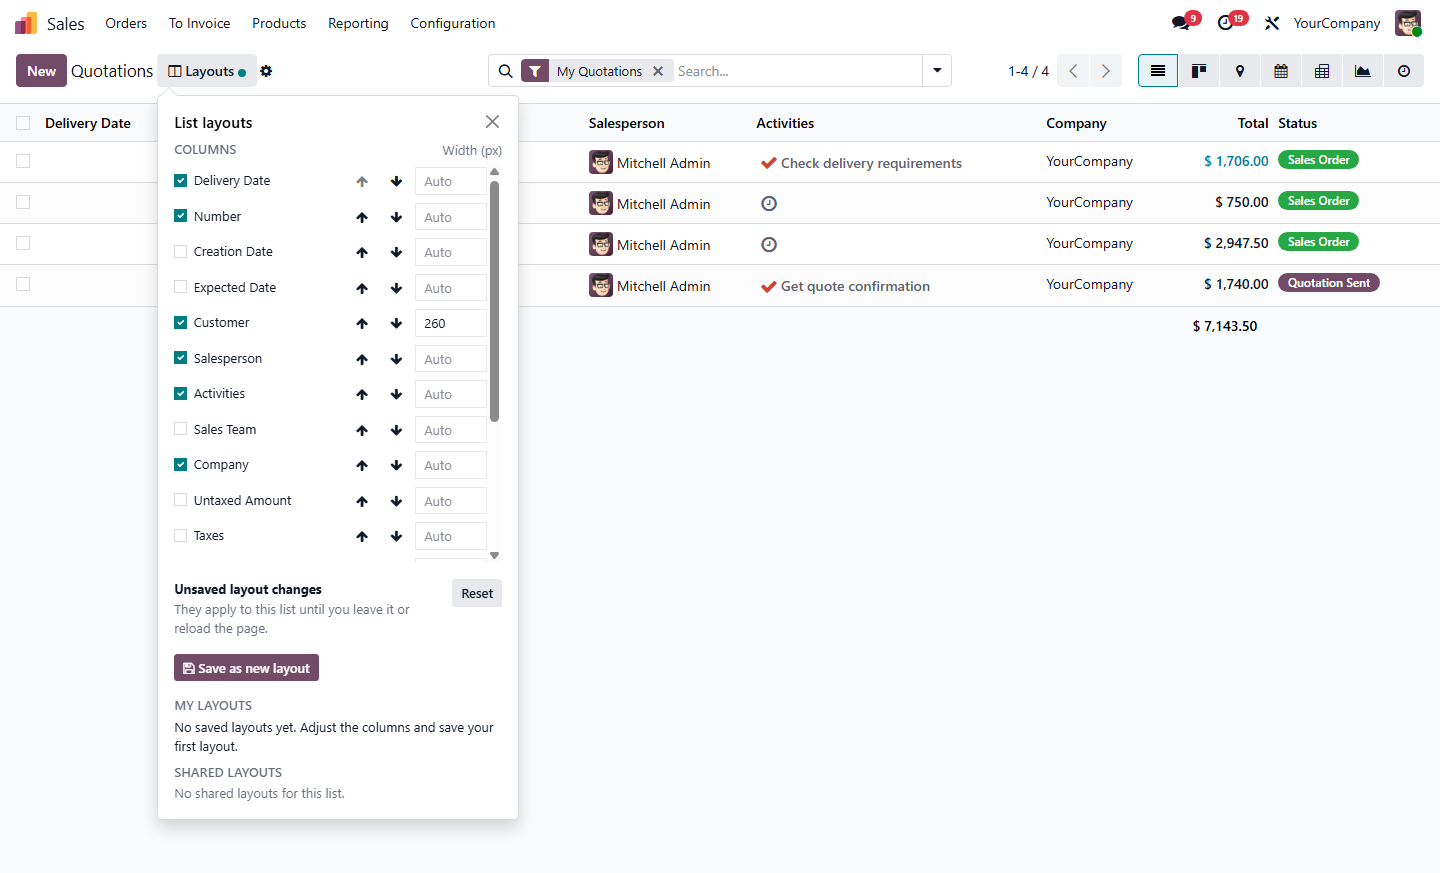
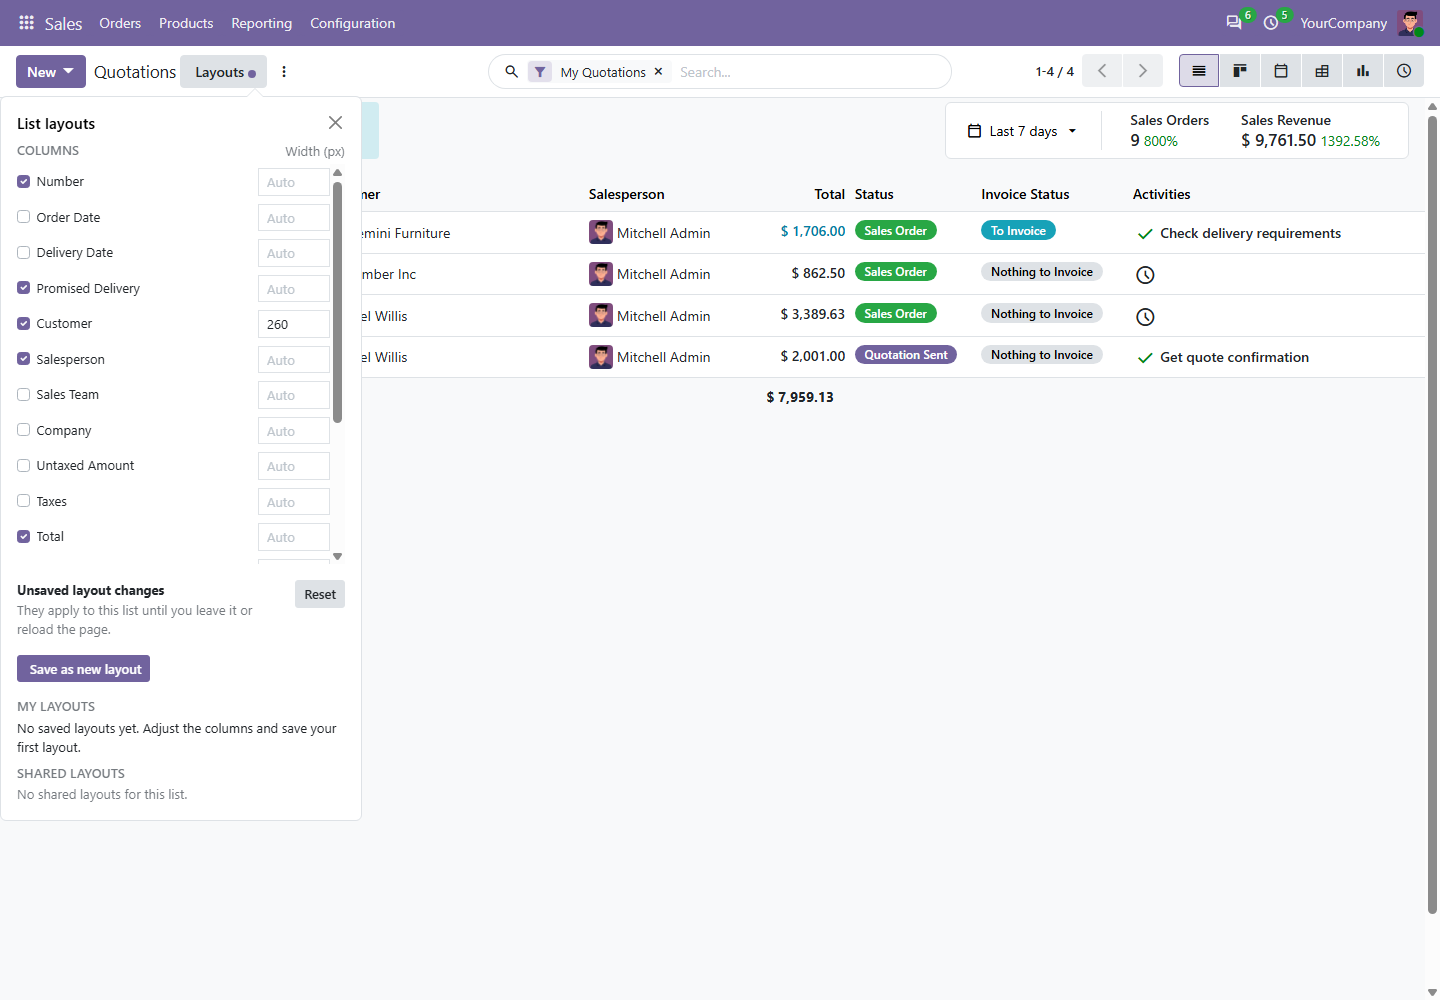
Port Smart List View Pro to Odoo 20.0 (20.0.1.1.0)
- Owl 3: proxy/signal refs/useProps, this.-scoped templates, t-out.
- Security: ir.access.csv replaces ir.model.access and ir.rule.
- List controller: control-panel check instead of showButtons; width
  reset uses the renderer's instance flag.
- Tests and tours adapted to Odoo 20 markup; new screenshots and GIFs.

diff --git a/smart_list_view_pro/static/tests/tours/list_layouts_tour.js b/smart_list_view_pro/static/tests/tours/list_layouts_tour.js
@@ -49,12 +49,12 @@ function listLayoutsSteps({ first, second, resize }) {
         { trigger: "body:not(:has(.o_smart_list_panel))" },
         // Native sorting, both directions.
         { trigger: "thead th.o_column_sortable[data-name]:first", run: "click" },
-        { trigger: "thead .o_list_sortable_icon.fa-sort-asc, thead .o_list_sortable_icon.fa-sort-desc" },
+        { trigger: "thead .o_list_sortable_icon[data-icon=arrow_upward], thead .o_list_sortable_icon[data-icon=arrow_downward]" },
         {
-            trigger: "thead th.o_column_sortable[data-name]:has(.fa-sort-asc, .fa-sort-desc)",
+            trigger: "thead th.o_column_sortable[data-name]:has([data-icon=arrow_upward], [data-icon=arrow_downward])",
             run: "click",
         },
-        { trigger: "thead .o_list_sortable_icon.fa-sort-asc, thead .o_list_sortable_icon.fa-sort-desc" },
+        { trigger: "thead .o_list_sortable_icon[data-icon=arrow_upward], thead .o_list_sortable_icon[data-icon=arrow_downward]" },
         // Native pager.
         { trigger: ".o_pager_next:enabled", run: "click" },
         { trigger: ".o_pager_value:contains(81-)" },
@@ -76,7 +76,7 @@ function listLayoutsSteps({ first, second, resize }) {
 
 registry.category("web_tour.tours").add("smart_list_view_pro_contacts", {
     url: "/odoo/action-contacts.action_contacts",
-    steps: () => listLayoutsSteps({ first: "email", second: "phone", resize: "display_name" }),
+    steps: () => listLayoutsSteps({ first: "email", second: "phone", resize: "complete_name" }),
 });
 
 registry.category("web_tour.tours").add("smart_list_view_pro_crm", {
@@ -86,7 +86,7 @@ registry.category("web_tour.tours").add("smart_list_view_pro_crm", {
 
 registry.category("web_tour.tours").add("smart_list_view_pro_sale", {
     url: "/odoo/action-sale.action_quotations_with_onboarding",
-    steps: () => listLayoutsSteps({ first: "partner_id", second: "user_id", resize: "name" }),
+    steps: () => listLayoutsSteps({ first: "commitment_date", second: "partner_id", resize: "name" }),
 });
 
 const personal = ".o_smart_list_section_personal";
@@ -123,14 +123,15 @@ registry.category("web_tour.tours").add("smart_list_view_pro_presets_admin", {
         { trigger: `${personal} .o_smart_list_apply:contains(copy)` },
         { trigger: `${personal} .o_smart_list_preset:has(.o_smart_list_apply:contains(copy)) .o_smart_list_delete`, run: "click" },
         { trigger: `${personal} .o_smart_list_confirm_delete`, run: "click" },
-        { trigger: `${personal}:not(:has(.o_smart_list_apply:contains(copy)))` },
+        // The confirm row hides the name at once: wait for the delete itself to finish.
+        { trigger: `${personal}:not(:has(.o_smart_list_confirm_delete)):not(:has(.o_smart_list_apply:contains(copy)))` },
         // Publish, unpublish, publish again.
         { trigger: `${shared} .o_smart_list_shared_empty` },
-        { trigger: `${personal} .o_smart_list_publish`, run: "click" },
+        { trigger: `${personal} .o_smart_list_publish:enabled`, run: "click" },
         { trigger: `${shared} .o_smart_list_apply:contains(SLV Calls)` },
         { trigger: `${shared} .o_smart_list_unpublish`, run: "click" },
         { trigger: `${shared} .o_smart_list_shared_empty` },
-        { trigger: `${personal} .o_smart_list_publish`, run: "click" },
+        { trigger: `${personal} .o_smart_list_publish:enabled`, run: "click" },
         { trigger: `${shared} .o_smart_list_apply:contains(SLV Calls)` },
         { trigger: ".o_smart_list_panel .btn-close", run: "click" },
         { trigger: "body:not(:has(.o_smart_list_panel))" },

diff --git a/smart_list_view_pro/static/src/js/layout_panel.js b/smart_list_view_pro/static/src/js/layout_panel.js
@@ -1,4 +1,4 @@
-import { Component, onMounted, onPatched, useRef, useState } from "@odoo/owl";
+import { Component, onMounted, onPatched, proxy, signal, t, useProps } from "@odoo/owl";
 import { _t } from "@web/core/l10n/translation";
 import { RPCError } from "@web/core/network/rpc";
 import { user } from "@web/core/user";
@@ -22,15 +22,18 @@ export const NAME_MAX_LENGTH = 80;
 
 export class SmartLayoutPanel extends Component {
     static template = "smart_list_view_pro.LayoutPanel";
-    static props = {
-        close: Function,
-        resModel: String,
-        viewRef: Number,
-        actionRef: Number,
-        isGrouped: Boolean,
-        layout: Object,
-        getColumns: Function,
-    };
+    props = useProps({
+        close: t.function(),
+        resModel: t.string(),
+        viewRef: t.number(),
+        actionRef: t.number(),
+        isGrouped: t.boolean(),
+        layout: t.object(),
+        getColumns: t.function(),
+    });
+
+    rootRef = signal.ref();
+    autofocusRef = signal.ref();
 
     setup() {
         this.MIN_COLUMN_WIDTH = MIN_COLUMN_WIDTH;
@@ -40,10 +43,10 @@ export class SmartLayoutPanel extends Component {
         // so a slow answer can never be applied to another list.
         this.orm = useService("orm");
         this.notification = useService("notification");
-        this.rootRef = useRef("root");
-        useAutofocus(); // the name input of the save/rename form
-        this.layout = useState(this.props.layout);
-        this.state = useState({
+        useAutofocus({ ref: this.autofocusRef }); // the name input of the save/rename form
+        // A proxy owned by the list controller, shared with the list renderer.
+        this.layout = this.props.layout;
+        this.state = proxy({
             loading: true,
             loadFailed: false,
             presets: [],
@@ -64,7 +67,7 @@ export class SmartLayoutPanel extends Component {
 
     /** First column control, else "Save as new layout", else Close. */
     focusFirst() {
-        const root = this.rootRef.el;
+        const root = this.rootRef();
         const target = [
             ".o_smart_list_column input:not(:disabled)",
             ".o_smart_list_save_new:not(:disabled)",
@@ -141,7 +144,10 @@ export class SmartLayoutPanel extends Component {
     }
 
     restoreFocus() {
-        const root = this.rootRef.el;
+        const root = this.rootRef();
+        if (!root) {
+            return;
+        }
         if (this.focusTarget) {
             const wanted = this.focusTarget;
             const target = typeof wanted === "string" ? root.querySelector(wanted) : wanted;
@@ -291,7 +297,7 @@ export class SmartLayoutPanel extends Component {
             this.showError(error);
         } finally {
             this.state.busy = false;
-            if (!this.focusTarget && this.rootRef.el?.contains(trigger)) {
+            if (!this.focusTarget && this.rootRef()?.contains(trigger)) {
                 this.focusLater(trigger);
             }
         }
@@ -373,6 +379,10 @@ export class SmartLayoutPanel extends Component {
                 ? this.presetSelector(form.id, ".o_smart_list_rename")
                 : ".o_smart_list_save_new"
         );
+    }
+
+    onNameInput(ev) {
+        this.state.form.name = ev.target.value;
     }
 
     onFormKeydown(ev) {

diff --git a/smart_list_view_pro/static/src/js/list_integration.js b/smart_list_view_pro/static/src/js/list_integration.js
@@ -1,4 +1,5 @@
-import { onWillStart, reactive, useEffect, useState, useSubEnv } from "@odoo/owl";
+import { onWillStart, proxy } from "@odoo/owl";
+import { useLayoutEffect, useSubEnv } from "@web/owl2/utils";
 import { evaluateBooleanExpr } from "@web/core/py_js/py";
 import { patch } from "@web/core/utils/patch";
 import { ListController } from "@web/views/list/list_controller";
@@ -19,7 +20,7 @@ patch(ListController.prototype, {
         this.smartLayout = null;
         if (this.smartLayoutsEligible) {
             // `columns: null` means native Odoo behaviour.
-            this.smartLayout = reactive({
+            this.smartLayout = proxy({
                 resModel: this.props.resModel,
                 columns: null,
                 applied: null, // { id, name, columns } of the last applied or saved layout
@@ -62,7 +63,8 @@ patch(ListController.prototype, {
         const config = this.env.config || {};
         return Boolean(
             !this.env.inDialog &&
-                this.props.showButtons &&
+                // Odoo 20 has no showButtons prop: lists embedded without a control panel are skipped.
+                Boolean(this.props.display?.controlPanel) &&
                 config.actionType === "ir.actions.act_window" &&
                 config.viewType === "list"
         );
@@ -114,16 +116,16 @@ patch(ListRenderer.prototype, {
     setup() {
         super.setup(...arguments);
         const layout = this.env.smartListLayout;
-        this.smartLayout =
-            layout && layout.resModel === this.props.list.resModel ? useState(layout) : null;
+        // A proxy: reading it while rendering subscribes the renderer to it.
+        this.smartLayout = layout && layout.resModel === this.props.list.resModel ? layout : null;
         this.smartWidthCache = new Map();
         if (this.smartLayout) {
             let mounted = false;
-            useEffect(
+            useLayoutEffect(
                 () => {
                     // Same column ids with new widths: the width hook keeps its frozen
                     // widths unless asked to recompute them.
-                    if (mounted && this.constructor.useMagicColumnWidths) {
+                    if (mounted && this.useMagicColumnWidths) {
                         this.columnWidths.resetWidths();
                     }
                     mounted = true;

diff --git a/smart_list_view_pro/static/src/js/layout_button.js b/smart_list_view_pro/static/src/js/layout_button.js
@@ -1,4 +1,4 @@
-import { Component, useRef, useState } from "@odoo/owl";
+import { Component, signal, t, useProps } from "@odoo/owl";
 import { _t } from "@web/core/l10n/translation";
 import { usePopover } from "@web/core/popover/popover_hook";
 import { isLayoutModified } from "./column_layout";
@@ -6,18 +6,21 @@ import { SmartLayoutPanel } from "./layout_panel";
 
 export class SmartLayoutsButton extends Component {
     static template = "smart_list_view_pro.LayoutsButton";
-    static props = {
-        resModel: String,
-        viewId: { type: [Number, Boolean] },
-        actionId: { type: [Number, Boolean] },
-        isGrouped: Boolean,
-        layout: Object,
-        getColumns: Function,
-    };
+    props = useProps({
+        resModel: t.string(),
+        viewId: t.or([t.number(), t.boolean()]),
+        actionId: t.or([t.number(), t.boolean()]),
+        isGrouped: t.boolean(),
+        layout: t.object(),
+        getColumns: t.function(),
+    });
+
+    buttonRef = signal.ref();
 
     setup() {
-        this.buttonRef = useRef("button");
-        this.layout = useState(this.props.layout);
+        // `layout` is a proxy owned by the list controller: reading it while
+        // rendering subscribes this button to its changes.
+        this.layout = this.props.layout;
         this.popover = usePopover(SmartLayoutPanel, {
             position: "bottom-end",
             popoverClass: "o_smart_list_popover",
@@ -25,7 +28,7 @@ export class SmartLayoutsButton extends Component {
                 // Give focus back unless the user moved it elsewhere (e.g. clicked an input).
                 const active = document.activeElement;
                 if (!active || active === document.body || active.closest(".o_smart_list_popover")) {
-                    this.buttonRef.el?.focus();
+                    this.buttonRef()?.focus();
                 }
             },
         });

diff --git a/smart_list_view_pro/static/tests/layout_panel.test.js b/smart_list_view_pro/static/tests/layout_panel.test.js
@@ -210,7 +210,7 @@ test("editor lists eligible view columns only, with native visibility", async ()
 test("hiding, showing and resetting columns updates the live list", async () => {
     await openPanel();
     expect(headerNames()).toEqual(["name", "button", "amount"]);
-    expect(".o_optional_columns_dropdown").toHaveCount(1);
+    expect(".o_optional_columns_dropdown_toggle").toHaveCount(1);
 
     await contains(".o_smart_list_column[data-field=amount] input[type=checkbox]").click();
     // The button stays next to the column that precedes it in the arch.
@@ -218,7 +218,7 @@ test("hiding, showing and resetting columns updates the live list", async () => 
     expect(".o_smart_list_modified_notice").toHaveCount(1);
     expect(".o_smart_list_layouts_button .o_smart_list_modified_dot").toHaveCount(1);
     // The panel is the single column control while a layout is active.
-    expect(".o_optional_columns_dropdown").toHaveCount(0);
+    expect(".o_optional_columns_dropdown_toggle").toHaveCount(0);
 
     await contains(".o_smart_list_column[data-field=note] input[type=checkbox]").click();
     expect(headerNames()).toEqual(["name", "button", "note"]);
@@ -226,7 +226,7 @@ test("hiding, showing and resetting columns updates the live list", async () => 
     await contains(".o_smart_list_reset").click();
     expect(headerNames()).toEqual(["name", "button", "amount"]);
     expect(".o_smart_list_modified_notice").toHaveCount(0);
-    expect(".o_optional_columns_dropdown").toHaveCount(1);
+    expect(".o_optional_columns_dropdown_toggle").toHaveCount(1);
 });
 
 test("the last visible column cannot be hidden", async () => {

diff --git a/smart_list_view_pro/static/description/index.html b/smart_list_view_pro/static/description/index.html
@@ -2,7 +2,7 @@
 <section class="oe_container" style="padding:0;">
     <div style="background-color:#115e59; border-radius:18px; padding:48px 32px 40px; color:#fff; text-align:center;">
         <div>
-            <span style="display:inline-block; background:#f59e0b; color:#2a1e00; font-weight:700; font-size:13px; padding:5px 14px; border-radius:20px; margin:0 4px 8px;">Odoo 19</span>
+            <span style="display:inline-block; background:#f59e0b; color:#2a1e00; font-weight:700; font-size:13px; padding:5px 14px; border-radius:20px; margin:0 4px 8px;">Odoo 20</span>
             <span style="display:inline-block; background-color:#1f7a73; color:#fff; font-weight:600; font-size:13px; padding:5px 14px; border-radius:20px; margin:0 4px 8px;">Community &amp; Enterprise</span>
             <span style="display:inline-block; background-color:#1f7a73; color:#fff; font-weight:600; font-size:13px; padding:5px 14px; border-radius:20px; margin:0 4px 8px;">Self-hosted &amp; Odoo.sh</span>
         </div>
@@ -301,7 +301,7 @@
                     <li>No external service, no tracking, no data leaves your database.</li>
                     <li>Layouts are stored in a single model (<code>smart.list.preset</code>) with record rules;
                         uninstalling the module removes them and leaves your records untouched.</li>
-                    <li>Tested on Contacts, CRM and Sales lists of Odoo 19 Enterprise.</li>
+                    <li>Tested on Contacts, CRM and Sales lists of Odoo 20.0 Community (self-hosted).</li>
                 </ul>
             </div>
         </div>

diff --git a/smart_list_view_pro/tests/test_list_tour.py b/smart_list_view_pro/tests/test_list_tour.py
@@ -12,7 +12,7 @@ class TestSmartListTour(HttpCase):
     def test_contacts_list_tour(self):
         self._require("contacts")
         self.env["res.partner"].create([{"name": f"SLV Contact {i:03d}"} for i in range(90)])
-        self.start_tour("/odoo", "smart_list_view_pro_contacts", login="admin")
+        self.start_tour("/odoo/action-contacts.action_contacts", "smart_list_view_pro_contacts", login="admin")
 
     def test_crm_list_tour(self):
         self._require("crm")
@@ -23,7 +23,7 @@ class TestSmartListTour(HttpCase):
                 for i in range(90)
             ]
         )
-        self.start_tour("/odoo", "smart_list_view_pro_crm", login="admin")
+        self.start_tour("/odoo/action-crm.crm_lead_action_pipeline", "smart_list_view_pro_crm", login="admin")
 
     def test_sale_list_tour(self):
         self._require("sale_management")
@@ -32,7 +32,7 @@ class TestSmartListTour(HttpCase):
         self.env["sale.order"].create(
             [{"partner_id": partner.id, "user_id": admin.id} for _i in range(90)]
         )
-        self.start_tour("/odoo", "smart_list_view_pro_sale", login="admin")
+        self.start_tour("/odoo/action-sale.action_quotations_with_onboarding", "smart_list_view_pro_sale", login="admin")
 
 
 @tagged("post_install", "-at_install")
@@ -46,7 +46,7 @@ class TestPresetTours(HttpCase):
         Preset = self.env["smart.list.preset"].with_context(active_test=False)
         admin = self.env.ref("base.user_admin")
 
-        self.start_tour("/odoo", "smart_list_view_pro_presets_admin", login="admin")
+        self.start_tour("/odoo/action-contacts.action_contacts", "smart_list_view_pro_presets_admin", login="admin")
         mine = Preset.search([("owner_id", "=", admin.id), ("visibility", "=", "personal")])
         self.assertEqual(mine.mapped("name"), ["SLV Calls"])
         self.assertIn('"field":"email","visible":false', mine.layout_json)
@@ -54,7 +54,7 @@ class TestPresetTours(HttpCase):
         self.assertEqual(sorted(shared.mapped("active")), [False, True])
         self.assertTrue(all(p.view_key == mine.view_key for p in shared))
 
-        self.start_tour("/odoo", "smart_list_view_pro_presets_employee", login=employee.login)
+        self.start_tour("/odoo/action-contacts.action_contacts", "smart_list_view_pro_presets_employee", login=employee.login)
         copy = Preset.search([("owner_id", "=", employee.id)])
         self.assertEqual(copy.mapped("name"), ["SLV Calls (copy)"])
         self.assertEqual(copy.visibility, "personal")
@@ -64,7 +64,7 @@ class TestPresetTours(HttpCase):
     def test_default_layout_survives_reload(self):
         if self.env["ir.module.module"]._get("contacts").state != "installed":
             self.skipTest("contacts not installed")
-        self.start_tour("/odoo", "smart_list_view_pro_default_reload", login="admin")
+        self.start_tour("/odoo/action-contacts.action_contacts?view_type=list", "smart_list_view_pro_default_reload", login="admin")
         preset = self.env["smart.list.preset"].search([("name", "=", "SLV Default")])
         self.assertEqual(len(preset), 1)
         self.assertFalse(preset.is_default)

diff --git a/smart_list_view_pro/__manifest__.py b/smart_list_view_pro/__manifest__.py
@@ -1,7 +1,7 @@
 {
     "name": "Smart List View Pro",
     "summary": "List view manager: hide, reorder and resize columns, save layouts and set personal or team default list views.",
-    "version": "19.0.1.1.0",
+    "version": "20.0.1.1.0",
     "category": "Productivity",
     "author": "Softdeviser",
     "website": "https://softdeviser.com",
@@ -12,7 +12,7 @@
     "depends": ["base", "web"],
     "data": [
         "security/smart_list_security.xml",
-        "security/ir.model.access.csv",
+        "security/ir.access.csv",
     ],
     "assets": {
         "web.assets_backend": [

diff --git a/smart_list_view_pro/README.md b/smart_list_view_pro/README.md
@@ -1,4 +1,4 @@
-# Smart List View Pro (Odoo 19)
+# Smart List View Pro (Odoo 20)
 
 Save personal list layouts and publish team presets without modifying business records.
 
@@ -30,8 +30,8 @@ Reset always returns to native Odoo columns without deleting anything.
 - Not editable while the list is grouped (a notice is shown).
 
 ## Supported
-- Odoo 19 Community / Enterprise, self-hosted or Odoo.sh. Not Odoo Online.
-  Verified on Odoo 19.0+e (Enterprise, self-hosted); Community not yet tested.
+- Odoo 20 Community / Enterprise, self-hosted or Odoo.sh. Not Odoo Online.
+  Verified on Odoo 20.0 Community (self-hosted); Enterprise not yet tested on this version.
 - Top-level list views opened from a window action.
 
 ## Install
@@ -96,6 +96,6 @@ JS unit tests: open `/web/tests?filter=smart_list_view_pro` while logged in as a
 ## Support
 Softdeviser · rahul@softdeviser.com · https://softdeviser.com
 
-This release supports Odoo 19.0 (self-hosted and Odoo.sh). Odoo Online is not
+This release supports Odoo 20.0 (self-hosted and Odoo.sh). Odoo Online is not
 supported. Custom views and third-party list widgets are outside the scope of
 support.

diff --git a/smart_list_view_pro/CHANGELOG.md b/smart_list_view_pro/CHANGELOG.md
@@ -1,5 +1,10 @@
 # Changelog
 
+## 20.0.1.1.0
+- Port of 19.0.1.1.0 to Odoo 20.0 (same features and security rules).
+- Frontend moved to Owl 3: props declared with `useProps`, state in `proxy`,
+  refs with `signal.ref()`, templates read component members through `this.`.
+
 ## 19.0.1.1.0
 - Default layouts: star a personal layout to open the list with it every time
   (it survives reloads), or, as a layout administrator, star a shared layout to
